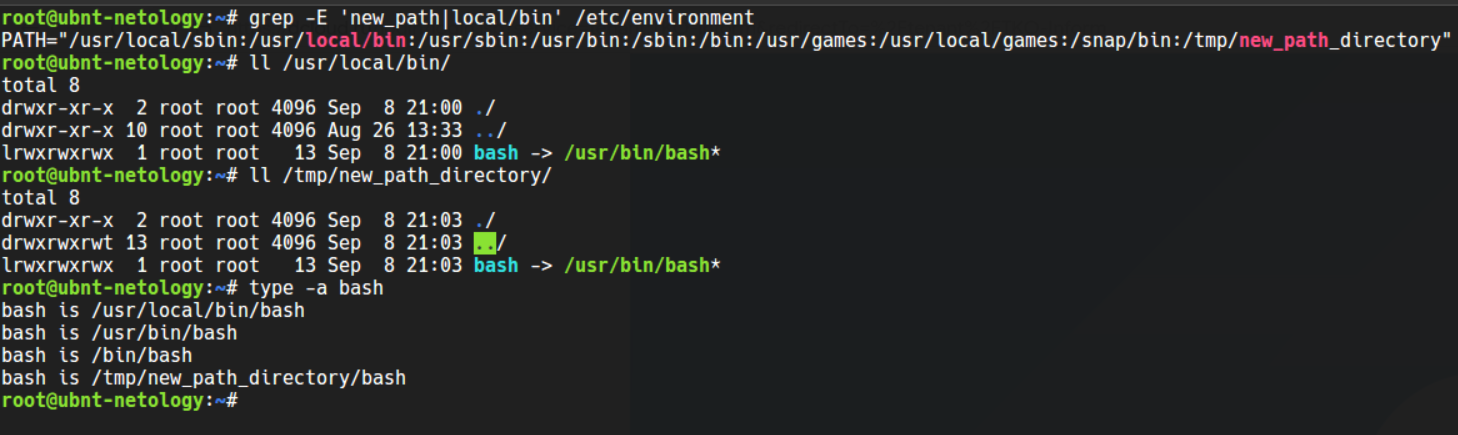
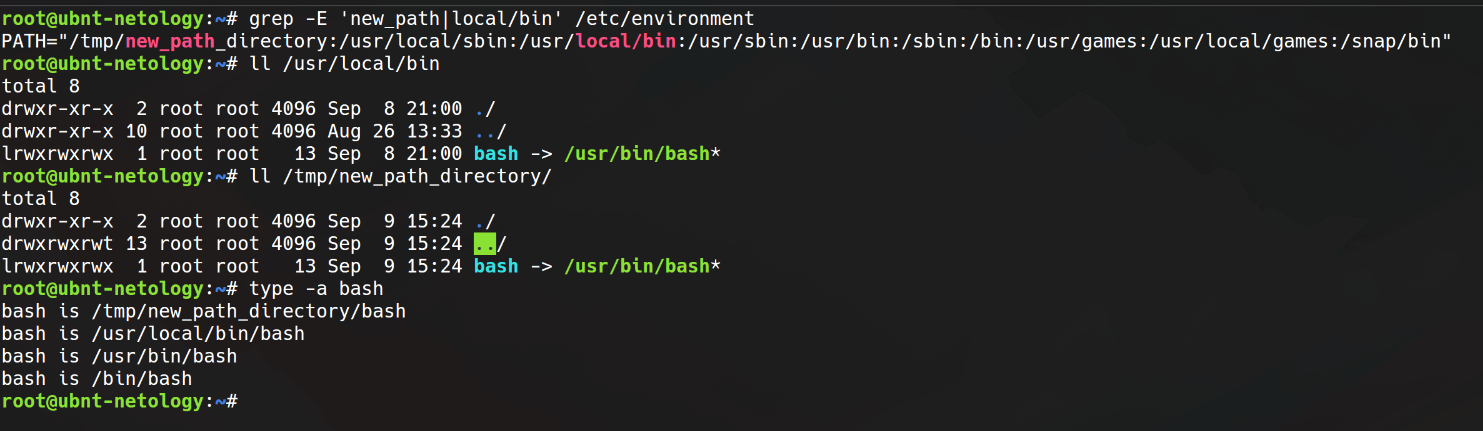
init-3

Changed region(s): [[0.0, 0.0, 1.0, 0.9652]]

diff --git a/README.md b/README.md
@@ -22,7 +22,7 @@
     Условные выражения. [ - синоним команды test, [[ - расширенная версия. Флаг -d "Истинно, если файл существует и является каталогом". Эту конструкцию можно применять в сценариях, где необходима проверка существования директории.   
 
 # 12
-    Дописываем в /etc/environment :/tmp/new_path_directory
+    Дописываем в начало /etc/environment /tmp/new_path_directory:
     source /etc/environment
     ln -s /usr/bin/bash /tmp/new_path_directory/
     ln -s /usr/bin/bash /usr/local/bin/
